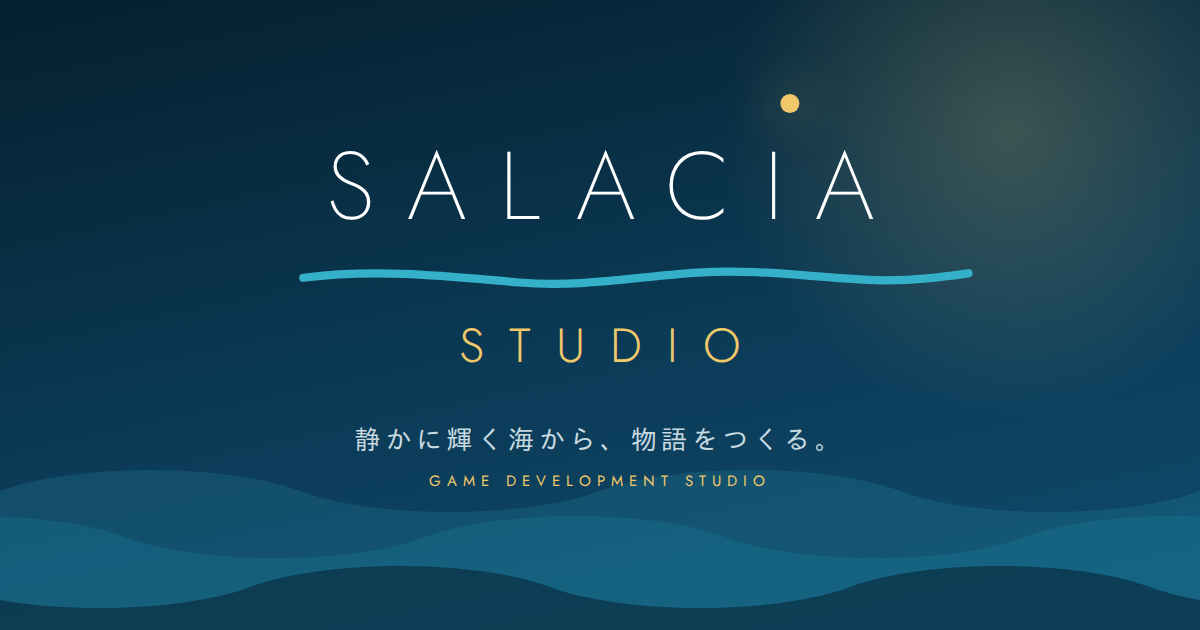
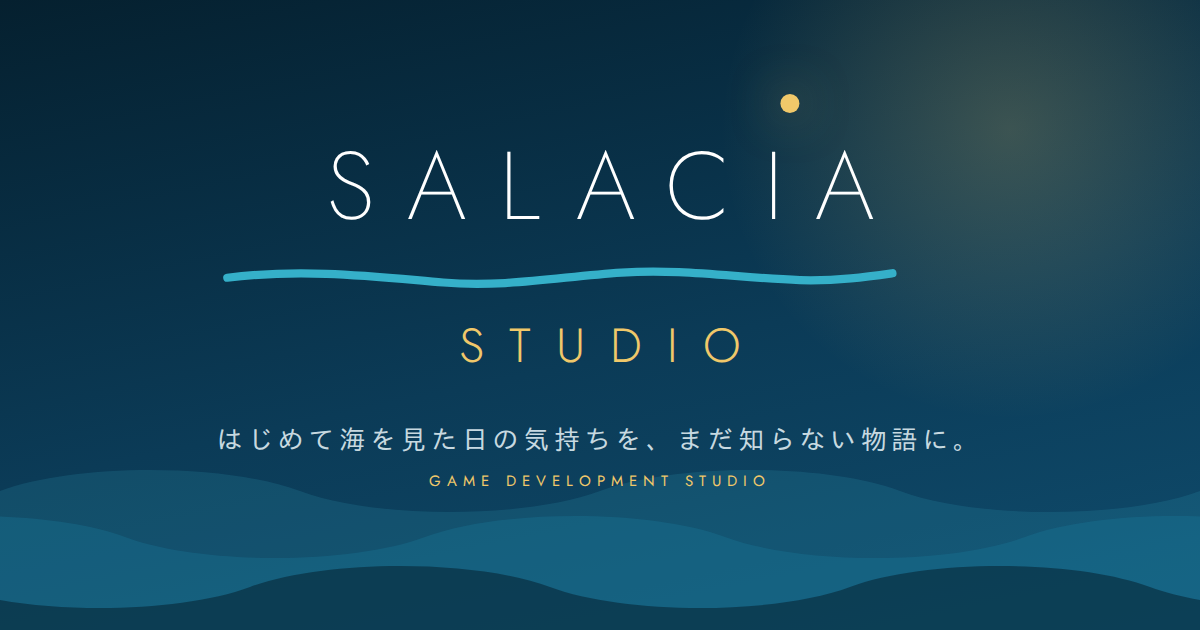
コピーを全面改稿し、運営体制に関する記述を削除
タグラインを「はじめて海を見た日の気持ちを、まだ知らない物語に。」に変更し、
全ページのコピーを一つの軸に揃えた。

軸：海がくれる三つの感情（①息をのむ美しさ → ②その先へのわくわく →
③あとに残る余韻）。ロゴのモチーフ（波・イルカ・いるか座）と、
プレイヤーの体験の時間軸をそのまま対応させている。

- トップ：ヒーロー、Concept 3項目、スタジオ紹介、作品紹介、CTA
- スタジオについて：代表メッセージ、モチーフの意味
- 作品：制作の姿勢 3項目
- meta / og / 構造化データ / OG画像 / README

あわせて、運営人数に触れる記述（「ひとりのつくり手」「代表1名」
「従業員数 1名」「小さなスタジオ」等）をすべて削除した。

和文の折り返しを word-break: auto-phrase で文節単位に調整。

Claude-Session: https://claude.ai/code/session_013mN1MoVSBwqGjggh2gyrQw

Changed region(s): [[0.185, 0.6635, 0.8017, 0.7238], [0.185, 0.4222, 0.8325, 0.4825]]

diff --git a/index.html b/index.html
@@ -3,13 +3,13 @@
 <head>
 <meta charset="utf-8">
 <meta name="viewport" content="width=device-width, initial-scale=1">
-<title>SALACIA STUDIO｜静かに輝く海から、物語をつくる。</title>
-<meta name="description" content="SALACIA STUDIO（サラキア・スタジオ）は、ローマ神話の海の女神サラキアの名を掲げるひとりのつくり手によるゲーム開発スタジオです。穏やかで、深く、遠くまで届く体験をつくります。">
+<title>SALACIA STUDIO｜はじめて海を見た日の気持ちを、まだ知らない物語に。</title>
+<meta name="description" content="SALACIA STUDIO（サラキア・スタジオ）は、ローマ神話の海の女神サラキアの名を掲げるゲーム開発スタジオです。穏やかに輝く海を前にしたときの、息をのむ感覚と胸の高鳴りを呼び起こす物語をつくります。">
 <link rel="canonical" href="https://salaciastudio.com/">
 <meta property="og:type" content="website">
 <meta property="og:site_name" content="SALACIA STUDIO">
-<meta property="og:title" content="SALACIA STUDIO｜静かに輝く海から、物語をつくる。">
-<meta property="og:description" content="ローマ神話の海の女神サラキアの名を掲げる、ひとりのつくり手によるゲーム開発スタジオ。">
+<meta property="og:title" content="SALACIA STUDIO｜はじめて海を見た日の気持ちを、まだ知らない物語に。">
+<meta property="og:description" content="はじめて海を見た日の気持ちを、まだ知らない物語に。ローマ神話の海の女神サラキアの名を掲げるゲーム開発スタジオ。">
 <meta property="og:url" content="https://salaciastudio.com/">
 <meta property="og:image" content="https://salaciastudio.com/assets/img/og-image.png">
 <meta property="og:locale" content="ja_JP">
@@ -29,7 +29,7 @@
   "alternateName": "サラキア・スタジオ",
   "url": "https://salaciastudio.com/",
   "logo": "https://salaciastudio.com/assets/img/logo-onlight.svg",
-  "description": "ローマ神話の海の女神サラキアの名を掲げる、ひとりのつくり手によるゲーム開発スタジオ。",
+  "description": "はじめて海を見た日の気持ちを、まだ知らない物語に。ローマ神話の海の女神サラキアの名を掲げるゲーム開発スタジオ。",
   "email": "contact@salaciastudio.com"
 }
 </script>
@@ -110,10 +110,10 @@
 
     <div class="container hero__inner">
       <span class="hero__eyebrow">Game Development Studio</span>
-      <h1 class="hero__title">静かに輝く海から、<br>まだ知らない<span class="gold">物語</span>をつくる。</h1>
+      <h1 class="hero__title">はじめて海を見た日の気持ちを、<br>まだ知らない<span class="gold">物語</span>に。</h1>
       <p class="hero__lead">
-        SALACIA STUDIO は、ローマ神話の海の女神サラキアの名を掲げる、ひとりのつくり手によるゲーム開発スタジオです。
-        騒がしさではなく静けさで、遊ぶ人の記憶に長く残る体験を届けます。
+        穏やかに輝く海を前にしたときの、息をのむ静けさと、胸の高鳴り。
+        SALACIA STUDIO は、あの数秒をもう一度呼び起こす物語をつくるゲーム開発スタジオです。
       </p>
       <div class="btn-row hero__actions">
         <a class="btn btn--gold" href="about.html">スタジオについて<span class="btn__arrow" aria-hidden="true"></span></a>
@@ -129,10 +129,10 @@
     <div class="container">
       <div class="sec-head sec-head--center reveal">
         <span class="eyebrow">Concept</span>
-        <h2 class="sec-title" id="concept-title">わたしたちが大切にする、三つのこと</h2>
+        <h2 class="sec-title" id="concept-title">海の前に立った、あの数秒を。</h2>
         <p class="sec-lead">
-          社名のサラキアは、荒れた海ではなく「穏やかで、陽の光にきらめく広い海」を司る女神。
-          その静けさと深さを、そのままものづくりの姿勢にしています。
+          息をのむ美しさ、水平線の先へのわくわく、そして帰り道にも消えない余韻。
+          海がくれるこの三つの感情を、そのまま遊びの時間に置き換えることが、わたしたちのつくり方です。
         </p>
       </div>
 
@@ -144,10 +144,10 @@
             <circle class="accent" cx="38" cy="12" r="3.4"/>
           </svg>
           <span class="card__num">01</span>
-          <h3 class="card__title">穏やかで、深い<span class="en">Calm &amp; Deep</span></h3>
+          <h3 class="card__title">息をのむ、その一秒<span class="en">A First Sight</span></h3>
           <p class="card__text">
-            派手さで驚かせるのではなく、静かな手触りとていねいな余白で心を動かす。
-            遊び終わったあとにも、ふと思い出す作品を目指します。
+            はじめの景色で、思わず手が止まること。光の差し方、水の色、風の音。
+            まず美しさで心をつかむことを、すべての起点にしています。
           </p>
         </article>
 
@@ -159,10 +159,10 @@
             <circle class="accent" cx="33" cy="18" r="1.9"/>
           </svg>
           <span class="card__num">02</span>
-          <h3 class="card__title">導きのイルカ<span class="en">The Guiding Dolphin</span></h3>
+          <h3 class="card__title">まだ知らない、その先へ<span class="en">Into the Unknown</span></h3>
           <p class="card__text">
-            神話のイルカは、迷った女神をそっと連れ戻した使者でした。
-            プレイヤーを急かさず、迷っても戻れる設計で、そっと先へ導きます。
+            水平線の向こうを確かめたくなること。神話のイルカが女神を導いたように、
+            急かさず、けれど先へ行きたくなる仕掛けを重ねます。
           </p>
         </article>
 
@@ -174,10 +174,10 @@
             <circle class="accent" cx="24" cy="7" r="3.2"/>
           </svg>
           <span class="card__num">03</span>
-          <h3 class="card__title">海から星へ<span class="en">Sea to Stars</span></h3>
+          <h3 class="card__title">帰り道にも、心に残る<span class="en">Long After</span></h3>
           <p class="card__text">
-            サラキアの名は、天のいるか座から太陽系外縁天体にまで届いています。
-            小さなスタジオでも、遠くまで届く物語をつくれると信じています。
+            遊び終えたあとに、ふと思い出す景色があること。海の名が空のいるか座になったように、
+            体験が記憶として遠くまで届くことを目指します。
           </p>
         </article>
       </div>
@@ -201,8 +201,8 @@
           感謝した神はそのイルカを天に上げ、いるか座（デルフィヌス）にしたと伝えられています。
         </p>
         <p>
-          ひとりでつくるスタジオにとって、この物語は指針そのものです。
-          小さな存在が、遠くまで人を導くことがある——その一頭のイルカのような作品をつくります。
+          息をのむ美しい海、その先へ導くイルカ、そして空に残りつづける星。
+          この神話はそのまま、わたしたちがつくりたい体験の順序になっています。
         </p>
         <p class="u-mt-m">
           <a class="text-link" href="about.html">スタジオと社名の由来をもっと読む<span class="btn__arrow" aria-hidden="true"></span></a>
@@ -243,8 +243,8 @@
           <span class="work__status">Project 001</span>
           <h3 class="work__title">第一作、制作中</h3>
           <p class="card__text">
-            穏やかな海と星をモチーフにしたゲームを制作しています。
-            タイトル・対応プラットフォーム・公開時期は決まりしだいお知らせします。
+            穏やかに輝く海と星をモチーフにしたゲームを制作しています。
+            息をのむ景色と、その先を確かめたくなる時間を軸に組み立てているところです。
           </p>
           <ul class="work__meta">
             <li><b>タイトル</b><span>未発表</span></li>
@@ -300,7 +300,7 @@
       <h2 class="cta__title" id="cta-title">お仕事のご相談・取材のご依頼</h2>
       <p class="cta__text">
         受託開発、共同開発、メディア掲載など、どんなご相談でもお気軽にご連絡ください。
-        小さなスタジオだからこそ、最初のご連絡から代表がお応えします。
+        いただいたご連絡は、すべて代表が直接確認しております。
       </p>
       <div class="btn-row">
         <a class="btn btn--gold" href="contact.html">お問い合わせ<span class="btn__arrow" aria-hidden="true"></span></a>
@@ -322,8 +322,8 @@
           <span class="logo__sub" aria-hidden="true">STUDIO</span>
         </span>
         <p class="footer__tagline">
-          静かに輝く海から、物語をつくる。<br>
-          ローマ神話の海の女神サラキアの名を掲げる、ひとりのつくり手によるゲーム開発スタジオ。
+          はじめて海を見た日の気持ちを、まだ知らない物語に。<br>
+          ローマ神話の海の女神サラキアの名を掲げるゲーム開発スタジオ。
         </p>
       </div>
 

diff --git a/about.html b/about.html
@@ -9,7 +9,7 @@
 <meta property="og:type" content="article">
 <meta property="og:site_name" content="SALACIA STUDIO">
 <meta property="og:title" content="スタジオについて｜SALACIA STUDIO">
-<meta property="og:description" content="社名の由来となった海の女神サラキアの物語と、ひとりのつくり手によるスタジオの姿勢。">
+<meta property="og:description" content="社名の由来となった海の女神サラキアの物語と、スタジオがつくりたい体験について。">
 <meta property="og:url" content="https://salaciastudio.com/about.html">
 <meta property="og:image" content="https://salaciastudio.com/assets/img/og-image.png">
 <meta property="og:locale" content="ja_JP">
@@ -72,22 +72,27 @@
     <div class="container container--narrow">
       <div class="sec-head reveal">
         <span class="eyebrow">Message</span>
-        <h2 class="sec-title" id="message-title">ひとりだからこそ、<br>遠くまで届くものを。</h2>
+        <h2 class="sec-title" id="message-title">はじめて海を見た日の、<br>あの数秒をつくりたい。</h2>
       </div>
       <div class="reveal reveal-delay-1">
         <p>
-          SALACIA STUDIO は、企画から開発まで代表ひとりで手を動かすゲーム開発スタジオです。
-          大人数でしかつくれないものがある一方で、ひとりでしかつくれないものもある——そう考えて、この場所を始めました。
+          子どものころ、はじめて海を見たときのことを覚えているでしょうか。
+          視界いっぱいに広がる水面、光のきらめき、思わず止まる足。
+          説明も練習もいらないまま、心が動いてしまう数秒です。
         </p>
         <p>
-          決めごとを最小限にすれば、細部にいくらでも時間をかけられます。
+          ゲームでも、同じことが起こせると考えています。
+          最初の景色で息をのませ、その先を確かめたくさせ、遊び終えたあとにも余韻を残す。
+          SALACIA STUDIO がつくりたいのは、この一連の時間そのものです。
+        </p>
+        <p>
+          そのために、細部に時間をかけます。
           効果音のわずかな余韻、カメラがほんの少し遅れて追いかける感触、なにも起きない数秒の景色。
-          そうした小さな判断の積み重ねが、遊び終わったあとに残る「手触り」をつくると信じています。
+          心が動く瞬間は、いつもそうした小さな判断の積み重ねの先にあります。
         </p>
         <p>
-          目指しているのは、大声で目立つ作品ではありません。
-          静かで、深く、思い出したときにもう一度立ち上げたくなる作品です。
-          穏やかに輝く海のような体験を、ひとつずつ丁寧につくっていきます。
+          静かで、美しく、それでいて胸が高鳴る。
+          まだ知らない物語を、ひとつずつ丁寧につくっていきます。
         </p>
         <p class="u-mt-m"><strong>SALACIA STUDIO 代表</strong></p>
       </div>
@@ -128,8 +133,8 @@
       <div class="u-mt-l reveal reveal-delay-2">
         <ul class="motifs">
           <li><b>波（ロゴのアンダーライン）</b><span>海の女神サラキアそのもの。穏やかで、陽に輝く海。</span></li>
-          <li><b>イルカ</b><span>サラキアを導いた使者。小さな存在が、遠くまで人を導くこと。</span></li>
-          <li><b>いるか座 / Delphinus</b><span>天に上げられたイルカ。「海から星へ」広がる物語のスケール。</span></li>
+          <li><b>イルカ</b><span>サラキアを導いた使者。プレイヤーをまだ知らない先へ連れていくこと。</span></li>
+          <li><b>いるか座 / Delphinus</b><span>天に上げられたイルカ。体験が記憶として遠くまで届くこと。</span></li>
           <li><b>金色（ロゴの一番星）</b><span>陽光と、準惑星「120347 サラキア」への呼応。</span></li>
         </ul>
         <p class="u-mt-l">
@@ -181,7 +186,6 @@
             <tr><th scope="row">設立</th><td>設立準備中</td></tr>
             <tr><th scope="row">代表者</th><td>—</td></tr>
             <tr><th scope="row">所在地</th><td>—</td></tr>
-            <tr><th scope="row">従業員数</th><td>1名（代表のみ）</td></tr>
             <tr><th scope="row">事業内容</th><td>ゲームの企画・開発・運営／受託開発・共同開発</td></tr>
             <tr><th scope="row">お問い合わせ</th><td><a href="contact.html">お問い合わせフォーム</a></td></tr>
           </tbody>
@@ -221,8 +225,8 @@
           <span class="logo__sub" aria-hidden="true">STUDIO</span>
         </span>
         <p class="footer__tagline">
-          静かに輝く海から、物語をつくる。<br>
-          ローマ神話の海の女神サラキアの名を掲げる、ひとりのつくり手によるゲーム開発スタジオ。
+          はじめて海を見た日の気持ちを、まだ知らない物語に。<br>
+          ローマ神話の海の女神サラキアの名を掲げるゲーム開発スタジオ。
         </p>
       </div>
 

diff --git a/works.html b/works.html
@@ -89,8 +89,8 @@
           <span class="work__status">Project 001</span>
           <h3 class="work__title">第一作、制作中</h3>
           <p class="card__text">
-            穏やかな海と星をモチーフにしたゲームを制作しています。
-            静かな手触りと、迷っても戻れる設計を軸に、少しずつかたちにしているところです。
+            穏やかに輝く海と星をモチーフにしたゲームを制作しています。
+            息をのむ景色と、その先を確かめたくなる時間を軸に、少しずつかたちにしているところです。
           </p>
           <ul class="work__meta">
             <li><b>タイトル</b><span>未発表</span></li>
@@ -114,24 +114,25 @@
       <div class="grid grid--3">
         <article class="card card--flat reveal">
           <span class="card__num">01</span>
-          <h3 class="card__title">手触りから決める<span class="en">Feel First</span></h3>
+          <h3 class="card__title">まず、美しさから<span class="en">Beauty First</span></h3>
           <p class="card__text">
-            仕様書より先に、動かして確かめます。触ったときの気持ちよさが決まってから、
-            その周りに世界を組み立てていきます。
+            仕様書より先に、光と音と動きを合わせてみます。
+            見た瞬間に心が動くかどうかを、いちばん最初に確かめます。
           </p>
         </article>
         <article class="card card--flat reveal reveal-delay-1">
           <span class="card__num">02</span>
-          <h3 class="card__title">急かさない設計<span class="en">No Rush</span></h3>
+          <h3 class="card__title">迷っても、戻ってこられる<span class="en">No Rush</span></h3>
           <p class="card__text">
-            プレイヤーを追い立てず、立ち止まる時間を許す。迷っても必ず戻れる道を用意します。
+            先へ進みたい気持ちは、不安の裏返しでは続きません。
+            立ち止まる時間を許し、迷っても必ず戻れる道を用意します。
           </p>
         </article>
         <article class="card card--flat reveal reveal-delay-2">
           <span class="card__num">03</span>
-          <h3 class="card__title">小さく、長く<span class="en">Small &amp; Lasting</span></h3>
+          <h3 class="card__title">長く、深く<span class="en">Long Lasting</span></h3>
           <p class="card__text">
-            ひとりでつくれる規模を守りながら、長く遊べる密度を目指します。
+            遊び終えたあとに残るかどうかを基準に、密度を選びます。
             届けたあとも、ていねいに手を入れ続けます。
           </p>
         </article>
@@ -166,8 +167,8 @@
           <span class="logo__sub" aria-hidden="true">STUDIO</span>
         </span>
         <p class="footer__tagline">
-          静かに輝く海から、物語をつくる。<br>
-          ローマ神話の海の女神サラキアの名を掲げる、ひとりのつくり手によるゲーム開発スタジオ。
+          はじめて海を見た日の気持ちを、まだ知らない物語に。<br>
+          ローマ神話の海の女神サラキアの名を掲げるゲーム開発スタジオ。
         </p>
       </div>
 

diff --git a/contact.html b/contact.html
@@ -145,8 +145,8 @@
           </dl>
 
           <p class="note u-mt-l">
-            採用に関するお問い合わせについて：現在、SALACIA STUDIO は代表1名で運営しており、
-            採用の予定はございません。共同制作のご相談は歓迎しております。
+            採用に関するお問い合わせについて：現在、採用は行っておりません。
+            共同制作・協業のご相談は歓迎しております。
           </p>
         </div>
       </aside>
@@ -166,8 +166,8 @@
           <span class="logo__sub" aria-hidden="true">STUDIO</span>
         </span>
         <p class="footer__tagline">
-          静かに輝く海から、物語をつくる。<br>
-          ローマ神話の海の女神サラキアの名を掲げる、ひとりのつくり手によるゲーム開発スタジオ。
+          はじめて海を見た日の気持ちを、まだ知らない物語に。<br>
+          ローマ神話の海の女神サラキアの名を掲げるゲーム開発スタジオ。
         </p>
       </div>
 

diff --git a/assets/css/style.css b/assets/css/style.css
@@ -66,7 +66,24 @@ body {
   letter-spacing: 0.02em;
   -webkit-font-smoothing: antialiased;
   text-rendering: optimizeLegibility;
-  overflow-wrap: anywhere;
+  overflow-wrap: break-word;
+}
+
+/* 和文は文節で折り返す（未対応ブラウザは通常の禁則処理にフォールバック） */
+.hero__title,
+.hero__lead,
+.sec-title,
+.sec-lead,
+.card__title,
+.card__text,
+.cta__title,
+.cta__text,
+.footer__tagline,
+.work__title,
+.note,
+.prose p,
+.prose li {
+  word-break: auto-phrase;
 }
 
 img,
@@ -1570,7 +1587,7 @@ a.news-item:hover {
 
 .footer__tagline {
   margin-top: 1.75rem;
-  max-width: 26em;
+  max-width: 30em;
   font-size: 0.86rem;
   color: rgba(234, 246, 250, 0.6);
 }

diff --git a/tools/og-image.html b/tools/og-image.html
@@ -102,7 +102,7 @@
   <div class="inner">
     <span class="letters">SALAC<span class="i">I<span class="star"></span></span>A<svg class="logowave" viewBox="0 0 200 14" preserveAspectRatio="none"><path d="M3 7.5 C 26 4.6, 48 7.4, 66 8.9 C 84 10.4, 100 7.2, 118 6 C 136 4.8, 152 7.6, 170 8.2 C 181 8.5, 190 7.2, 197 6.2"/></svg></span>
     <span class="sub">STUDIO</span>
-    <p class="tagline">静かに輝く海から、物語をつくる。</p>
+    <p class="tagline">はじめて海を見た日の気持ちを、まだ知らない物語に。</p>
     <p class="en">Game Development Studio</p>
   </div>
 </body>

diff --git a/brand.html b/brand.html
@@ -223,8 +223,8 @@
           <span class="logo__sub" aria-hidden="true">STUDIO</span>
         </span>
         <p class="footer__tagline">
-          静かに輝く海から、物語をつくる。<br>
-          ローマ神話の海の女神サラキアの名を掲げる、ひとりのつくり手によるゲーム開発スタジオ。
+          はじめて海を見た日の気持ちを、まだ知らない物語に。<br>
+          ローマ神話の海の女神サラキアの名を掲げるゲーム開発スタジオ。
         </p>
       </div>
 

diff --git a/news.html b/news.html
@@ -121,8 +121,8 @@
           <span class="logo__sub" aria-hidden="true">STUDIO</span>
         </span>
         <p class="footer__tagline">
-          静かに輝く海から、物語をつくる。<br>
-          ローマ神話の海の女神サラキアの名を掲げる、ひとりのつくり手によるゲーム開発スタジオ。
+          はじめて海を見た日の気持ちを、まだ知らない物語に。<br>
+          ローマ神話の海の女神サラキアの名を掲げるゲーム開発スタジオ。
         </p>
       </div>
 

diff --git a/privacy.html b/privacy.html
@@ -168,8 +168,8 @@
           <span class="logo__sub" aria-hidden="true">STUDIO</span>
         </span>
         <p class="footer__tagline">
-          静かに輝く海から、物語をつくる。<br>
-          ローマ神話の海の女神サラキアの名を掲げる、ひとりのつくり手によるゲーム開発スタジオ。
+          はじめて海を見た日の気持ちを、まだ知らない物語に。<br>
+          ローマ神話の海の女神サラキアの名を掲げるゲーム開発スタジオ。
         </p>
       </div>
 

diff --git a/README.md b/README.md
@@ -3,8 +3,10 @@
 ゲーム開発スタジオ **SALACIA STUDIO（サラキア・スタジオ）** の公式サイトです。
 ビルド不要の静的サイト（HTML / CSS / 素の JavaScript）で、そのままどのホスティングにも置けます。
 
-- コンセプト：静かに輝く海から、物語をつくる。
-- モチーフ：穏やかに輝く海（波）／導きのイルカ／いるか座（海から星へ）／陽光の金
+- タグライン：はじめて海を見た日の気持ちを、まだ知らない物語に。
+- コピーの軸：海がくれる三つの感情 — ①息をのむ美しさ ②その先へのわくわく ③あとに残る余韻。
+  この順序をトップの Concept、Works の姿勢、代表メッセージで共通して使っています。
+- モチーフ：穏やかに輝く海（波＝①）／導きのイルカ（②）／いるか座（③・海から星へ）／陽光の金
 
 ---
 
